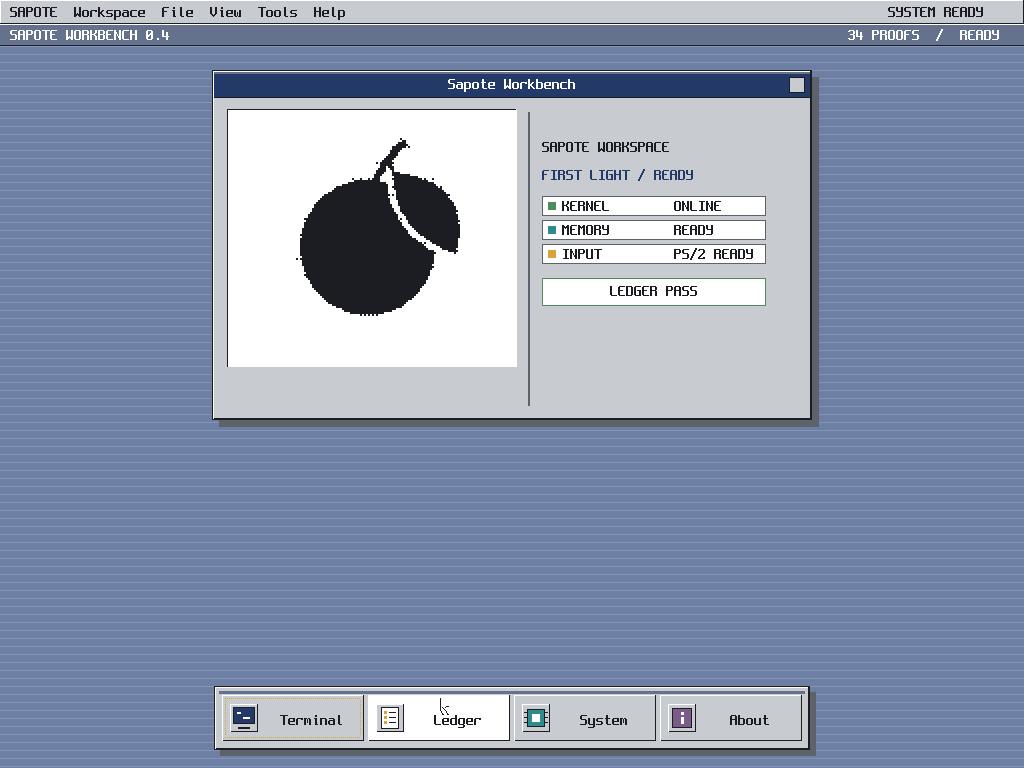
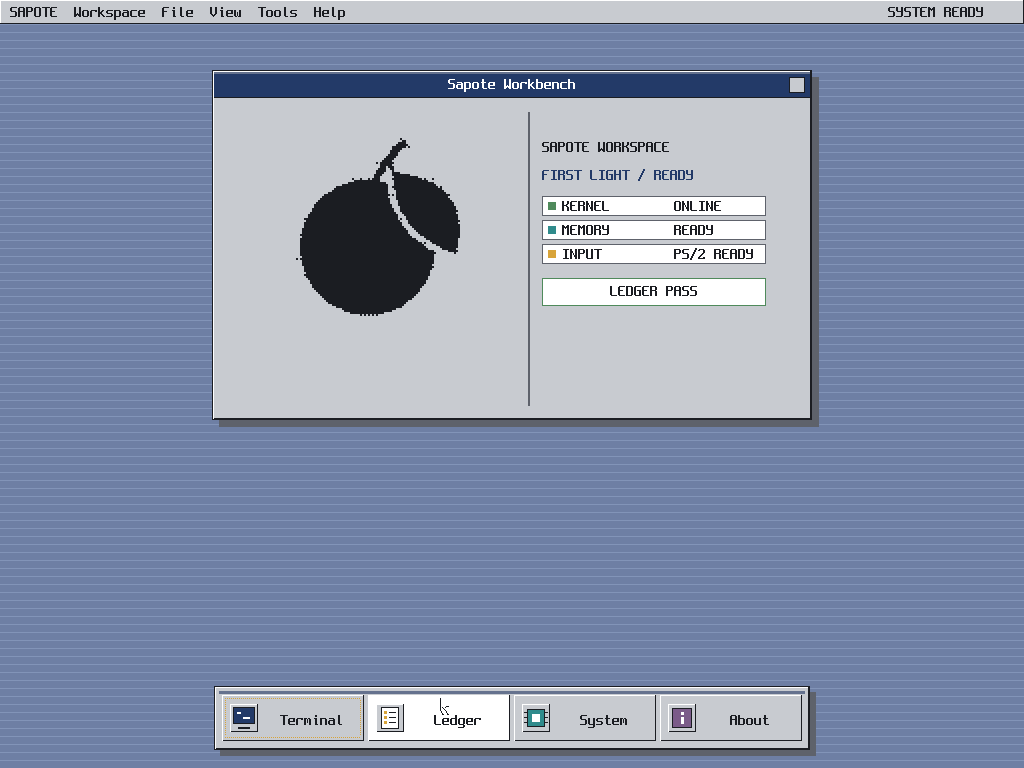
ui: integrate the Sapote mark with First Light

Changed region(s): [[0.2188, 0.125, 0.5312, 0.5], [0.0, 0.0312, 1.0, 0.0625]]

diff --git a/src/kernel/ui.c b/src/kernel/ui.c
@@ -654,7 +654,7 @@ static enum ui_status draw_logo_clipped(struct ui_rect damage)
                 (source >> framebuffer.blue_position) & 0xFFU;
             const uint32_t luminance =
                 (red * 77U + green * 150U + blue * 29U) >> 8U;
-            uint32_t pixel = state.theme.white;
+            uint32_t pixel = state.theme.window_face;
 
             if (luminance <= 96U) {
                 pixel = state.theme.ink;
@@ -836,35 +836,6 @@ static enum ui_status draw_window_title(
     }
     if (status == UI_STATUS_OK) {
         status = draw_text(title, damage, label_x, baseline, label,
-            state.theme.white);
-    }
-    return status;
-}
-
-static enum ui_status draw_workspace_bar(struct ui_rect damage)
-{
-    enum ui_status status = fill_clipped(state.layout.workspace_bar, damage,
-        state.theme.title_inactive);
-
-    if (status == UI_STATUS_OK) {
-        status = fill_clipped((struct ui_rect){ state.layout.workspace_bar.x,
-            state.layout.workspace_bar.y, state.layout.workspace_bar.width,
-            1U }, damage, state.theme.white);
-    }
-    if (status == UI_STATUS_OK) {
-        status = fill_clipped((struct ui_rect){ state.layout.workspace_bar.x,
-            state.layout.workspace_bar.y + state.layout.workspace_bar.height - 1U,
-            state.layout.workspace_bar.width, 1U }, damage, state.theme.ink);
-    }
-    if (status == UI_STATUS_OK) {
-        status = draw_text(state.layout.workspace_bar, damage, 10U,
-            state.layout.workspace_bar.y + 16U, "SAPOTE WORKBENCH 0.4",
-            state.theme.white);
-    }
-    if (status == UI_STATUS_OK) {
-        status = draw_text(state.layout.workspace_bar, damage,
-            state.layout.workspace_bar.width - 176U,
-            state.layout.workspace_bar.y + 16U, "34 PROOFS  /  READY",
             state.theme.white);
     }
     return status;
@@ -1189,8 +1160,8 @@ static enum ui_status draw_desktop_pattern(struct ui_rect damage)
 {
     enum ui_status status = fill_clipped(state.layout.surface, damage,
         state.theme.desktop_dark);
-    const uint32_t start = state.layout.workspace_bar.y +
-        state.layout.workspace_bar.height;
+    const uint32_t start = state.layout.menu_bar.y +
+        state.layout.menu_bar.height;
 
     for (uint32_t y = start; y < state.layout.surface.height &&
          status == UI_STATUS_OK; y += 8U) {
@@ -1276,9 +1247,6 @@ static enum ui_status render_region(struct ui_rect damage, bool full)
             state.layout.menu_baseline, "SYSTEM READY", state.theme.ink);
     }
     if (status == UI_STATUS_OK) {
-        status = draw_workspace_bar(damage);
-    }
-    if (status == UI_STATUS_OK) {
         status = fill_clipped(drop_shadow_draw_rect(
             state.layout.hero_window, 7U), damage, state.theme.shadow);
     }
@@ -1306,16 +1274,6 @@ static enum ui_status render_region(struct ui_rect damage, bool full)
             UI_HERO_TITLE_HEIGHT
         }, damage, state.layout.hero_title_baseline,
             "Sapote Workbench", false);
-    }
-    if (status == UI_STATUS_OK) {
-        const struct ui_rect logo_frame = {
-            state.layout.logo.x - 5U, state.layout.logo.y - 5U,
-            state.layout.logo.width + 10U, state.layout.logo.height + 10U
-        };
-        status = fill_clipped(logo_frame, damage, state.theme.white);
-        if (status == UI_STATUS_OK) {
-            status = bevel_clipped(logo_frame, damage, false);
-        }
     }
     if (status == UI_STATUS_OK) {
         status = fill_clipped((struct ui_rect){

diff --git a/src/kernel/test.c b/src/kernel/test.c
@@ -4407,13 +4407,16 @@ _Noreturn void kernel_test_complete_first_light(void)
     if (first_light_pixel(ui->layout.menu_bar.x,
             ui->layout.menu_bar.y) != ui->theme.white ||
         first_light_pixel(ui->layout.workspace_bar.x + 4U,
-            ui->layout.workspace_bar.y + 2U) != ui->theme.title_inactive ||
+            ui->layout.workspace_bar.y) != ui->theme.desktop_light ||
         first_light_pixel(ui->layout.workspace_bar.x + 4U,
-            ui->layout.workspace_bar.y + ui->layout.workspace_bar.height - 1U) !=
-                ui->theme.ink ||
+            ui->layout.workspace_bar.y + 2U) != ui->theme.desktop_dark ||
         first_light_pixel(ui->layout.hero_window.x,
             ui->layout.hero_window.y) != ui->theme.ink) {
         kernel_test_fail("First Light Workbench chrome stable pixel is incorrect");
+    }
+    if (first_light_pixel(ui->layout.logo.x,
+            ui->layout.logo.y) != ui->theme.window_face) {
+        kernel_test_fail("First Light logo field is not integrated");
     }
     if (first_light_pixel(ui->layout.logo.x + 140U,
             ui->layout.logo.y + 140U) != ui->theme.ink) {

diff --git a/docs/FIRST_LIGHT.md b/docs/FIRST_LIGHT.md
@@ -211,8 +211,9 @@ the real installed ledger, injects real three-byte packets through 8042 command
 `0xD3`, exercises hover/press/release and every panel, runs keyboard navigation,
 checks the synthetic absence plan, proves old/new cursor damage, reads selected
 logo/text/dock/panel/cursor pixels, and recomputes the ledger fingerprint. The
-workbench renders the decoded logo as a two-color, two-pixel bitmap and applies
-ordered dithering only to its antialiased edge shades.
+workbench renders the decoded logo as a two-color, two-pixel bitmap directly on
+the grey window face and applies ordered dithering only to its antialiased edge
+shades. It has no separate logo field and no secondary status strip.
 
 `tools/capture-first-light.py` uses QMP to capture the emulated display itself.
 It produces clean, focus/hover, and terminal-with-ledger frames. The committed

diff --git a/README.md b/README.md
@@ -40,8 +40,8 @@ scenarios cover boot, memory, interrupts, devices, and the interface.
 The canonical mark is the supplied 375×332 RGBA source at
 [`assets/sapote-logo.png`](assets/sapote-logo.png). The repository preserves its
 exact bytes; it is never redrawn, recoloured, cropped, or passed through a
-runtime PNG parser. First Light places the mark unchanged inside its own
-near-white field and uses a separate interface palette around it. The complete
+runtime PNG parser. First Light renders its shape as a two-colour bitmap
+directly on the grey workbench surface. The complete
 asset, palette, voice, and naming contract is in
 [`docs/BRAND.md`](docs/BRAND.md).
 

diff --git a/docs/BRAND.md b/docs/BRAND.md
@@ -50,7 +50,8 @@ around the unchanged asset:
 
 Status accents identify compact indicators and launcher icons; they are not
 applied to the logo. The First Light workbench displays the exact decoded shape
-as a two-color, two-pixel bitmap with ordered edge dithering. This display-only
+as a two-color, two-pixel bitmap with ordered edge dithering directly on the
+grey window face, without a separate field or frame. This display-only
 treatment leaves the canonical PNG unchanged. The framebuffer console uses
 black on white; early VGA
 text uses bright white on black. The kernel has no alpha compositor, gradients,
